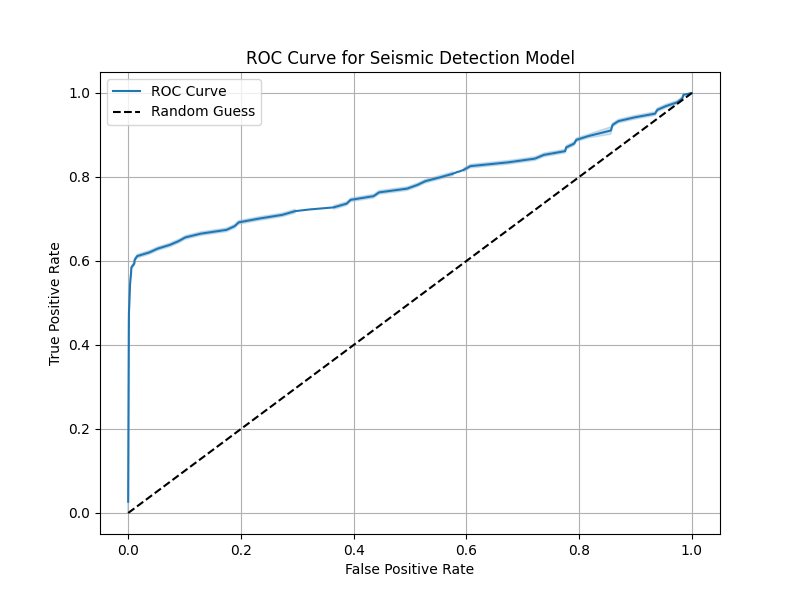
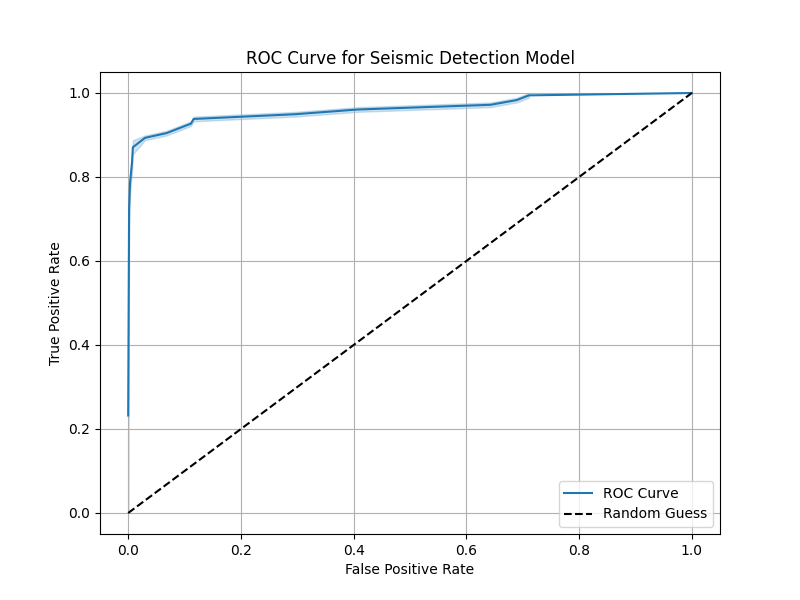
Updated training and testing notebooks.

diff --git a/reproducibility/training.py b/reproducibility/training.py
@@ -9,17 +9,17 @@ from config import KFOLD_SPLITS
 MODEL_CLASSES = [RepresentationLearningMultipleAutoencoder]
 
 # Should be stead or instance.
-DATASETS = ["stead", "instance"]
+DATASETS = ["instance"]
 
 # Number of epochs
-NUM_EPOCHS = 100
+NUM_EPOCHS = 40
 
 # For all splits, train the model over defined datasets.
-for eq_ratio in [0.05, 0.1, 0.15, 0.2, 0.25, 0.3, 0.35, 0.4, 0.45, 0.5, 0.55, 0.6, 0.65, 0.7, 0.75, 0.8, 0.85, 0.9, 0.95]:
+for eq_ratio in [0.1, 0.2, 0.3, 0.4, 0.5, 0.6, 0.7, 0.8, 0.9]:
     for train_dataset in DATASETS:
         for model_class in MODEL_CLASSES:
-            for split in range(KFOLD_SPLITS):
-                exp_name = f"exp_resample_eq_ratio{eq_ratio}"
+            for split in range(1):
+                exp_name = f"exp_custom_resample_eq_ratio{eq_ratio}"
                 kfold_trainer = KfoldTrainer(
                     exp_name, 
                     model_class, 
